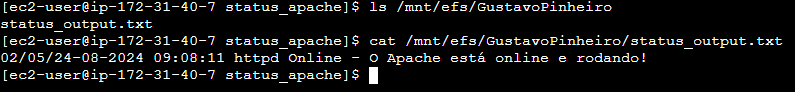
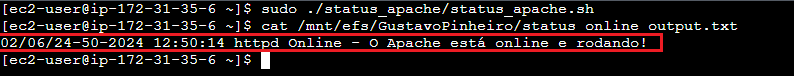
fix: Mudando a saída de um arquivo para dois

diff --git a/README.md b/README.md
@@ -182,7 +182,7 @@ Ainda no módulo de EC2 na lateral esquerda haverá um painel e na seção de "N
 
 
 ### Requisitos Linux:
-####⚡ Configurar EFS ⚡:
+#### ⚡ Configurar EFS ⚡:
 
 1. Vamos no módulo de EFS e então vamos clicar em "Create File System" como no exemplo abaixo:
 
@@ -240,8 +240,9 @@ Ainda no módulo de EC2 na lateral esquerda haverá um painel e na seção de "N
 7. Próximo passo é logar na nossa EC2 através da chave gerada nos passos inici  ais de configuração da AWS e então vamos executar o seguinte comando:
 
 ```bash
-yum -y install amazon-efs-utils
-mkdir /mnt/efs
+sudo yum update
+sudo yum install amazon-efs-utils
+sudo mkdir /mnt/efs
 ```
 
 
@@ -268,6 +269,7 @@ sudo mount -t efs [DNS_Name_copiado] [local_de_montagem]
 sudo mount -t efs fs-05462f6621439786d.efs.us-east-1.amazonaws.com /mnt/efs
  ```
 
+
 10. Logo após vamos executar o comando para criar uma pasta dentro do EFS com nosso nome, como requerido anteriormente:
 
 ```bash
@@ -280,10 +282,10 @@ sudo mkdir /mnt/efs/SeuNome
 
 
 🌟 <b> EXTRA </b> 🌟
-11. Para verificar se o diretórito foi montado corretamente na nossa máquina, vamos executar o comando:
+11. Para verificar se o diretórito foi montado corretamentena nossa máquina, vamos executar o comando:
 
 ```bash 
-dh -f #Esse comando lista todos os diretórios montados na instância
+df -h #Esse comando lista todos os diretórios montados na instância
 ```
 <div align="center">
   <img src="/src/step_by_step/efs_14.png">
@@ -363,13 +365,14 @@ if systemctl is-active --quiet httpd; then
  		STATUS="Online"
   	MESSAGE="O Apache está online e rodando!"
   	FILENAME="apache_online.txt"
+	echo "$DATE httpd $STATUS - $MESSAGE" >> /mnt/efs/GustavoPinheiro/status_online_output.txt
 else
   	STATUS="Offline"
  		MESSAGE="O Apache está offline."
   	FILENAME="apache_offline.txt"
+	echo "$DATE httpd $STATUS - $MESSAGE" >> /mnt/efs/GustavoPinheiro/status_offline_output.txt
 fi
 
-echo "$DATE httpd $STATUS - $MESSAGE" >> /mnt/efs/GustavoPinheiro/status_output.txt
 ```
 
 3. Mudar as permissões para que o script consiga ser executado
@@ -433,7 +436,7 @@ cat /mnt/efs/GustavoPinheiro/status_output.txt
   <img src="/src/step_by_step/cron_02.png">
 </div>
 
-Por fim temos o nosso script validando a cada 
+Por fim temos o nosso script validando a cada 5 minutos como especificado no crontab.
 
 ### 🌟 Automatizando a montagem do EFS e inicialização do Apache 🌟
 
